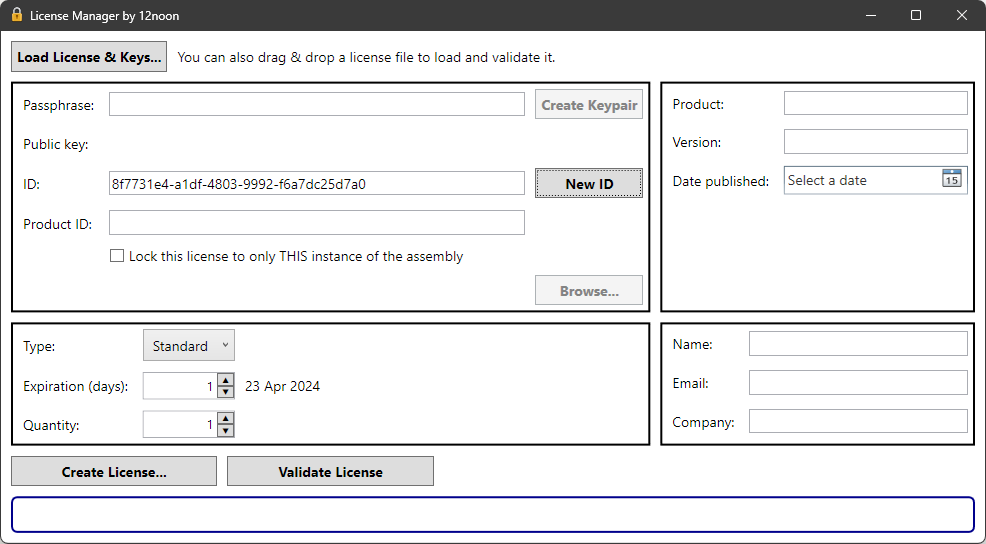
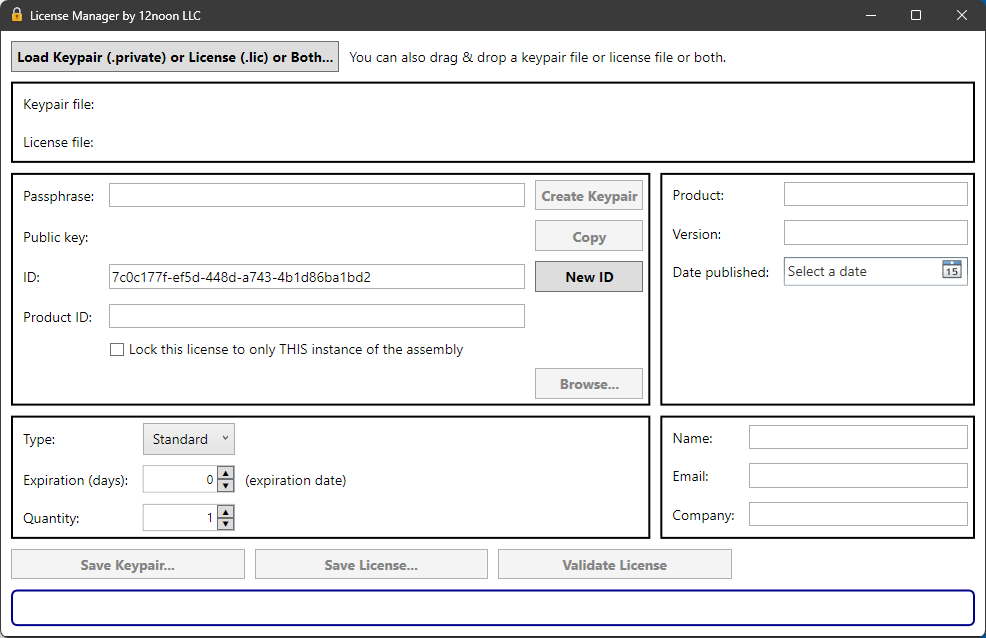
Update README.

diff --git a/README.md b/README.md
@@ -1,9 +1,7 @@
 # License Manager by [12noon LLC](https://12noon.com)
 
-[![build](https://github.com/skst/LicenseManager/actions/workflows/dotnet.yml/badge.svg)](https://github.com/skst/LicenseManager/actions/workflows/dotnet.yml)
-
 [![](https://img.shields.io/github/v/release/skst/LicenseManager.svg?label=latest%20release&color=007edf)](https://github.com/skst/LicenseManager/releases/latest)
-
+[![build](https://github.com/skst/LicenseManager/actions/workflows/dotnet.yml/badge.svg)](https://github.com/skst/LicenseManager/actions/workflows/dotnet.yml)
 [![GitHub last commit](https://img.shields.io/github/last-commit/skst/LicenseManager)](https://github.com/skst/LicenseManager)
 
 This is a graphical front-end for the [Standard.Licensing](https://github.com/junian/Standard.Licensing) project.
@@ -41,7 +39,7 @@ The publish date can represent any date you want.
 | Property | Usage |
 |----------|-------|
 | Type | Standard or trial license |
-| Expiration | The date on which the license expires. |
+| Expiration | The number of days in which the license expires. Zero means no expiry. |
 | Quantity | Minimum value is one (1) |
 
 The licensed application can check the type to permit only certain features.
@@ -64,18 +62,19 @@ This information can be displayed by the licensed application.
 
 ### Create a New License
 
-Note that the public key and product ID are passed by the licensed application,
+Note that the public key and product ID are passed by the licensed application
 to validate the license, so you only want to create a new keypair or change the
-product ID if you want to rebuild the licensed application and create new licenses
-for anyone who will use the new build.
+product ID if you want to change them in the licensed application, rebuild it,
+and create new licenses for anyone who will use the new build.
 
 1. Create a keypair by entering a value for _Passphrase_ and pressing _Create Keypair_ button.
 1. Enter a _Product ID_.
 1. Optionally, lock the license to a specific build of the licensed application.
 1. Fill in the product information, license information, and licensee information.
-1. Press the _Create License..._ button. This will prompt you for where to save the `.lic` and `.private` files.
+1. Press the _Save Keypair..._ button. This will prompt you for where to save the `.private` file.
+1. Press the _Save License..._ button. This will prompt you for where to save the `.lic` file.
 
-The `.private` file contains all of the secret information used to create the license.
+The `.private` file contains all of the information used to create the license, including the secrets.
 Do keep the `.private` file somewhere safe.
 Do NOT add the `.private` file to source control.
 You will need it to create more licenses for your licensed application
@@ -83,16 +82,17 @@ You will need it to create more licenses for your licensed application
 
 ### Create a License Based on an Existing License
 
-1. Press the *Load License & Keys* button to select a `.lic` file.
-1. This will validate the license file.
+1. Press the *Load Keypair or License or Both...* button to select a `.private` or
+`.lic` file (or both of them). Alternatively, you can drag/drop a `.private` and/or `.lic` file.
+1. After loading both files, License Manager will validate the license file.
 
-If the license is invalid (_e.g._, the assembly has changed), you can create a new (valid) license.
-
-You can also drag/drop an existing `.lic` file (with its associated `.private` file in same folder).
+If the license is invalid (_e.g._, it expired or the assembly has changed), you can create a new (valid) license.
 
 1. Now you can update the product, license, or licensee information as needed.
-1. Press the _Create License..._ button to create a new license. This will
-prompt you for where to save the `.lic` file. (The `.private` file will be saved in the same folder.)
+1. Press the _Save Keypair..._ button to save the keypair file. This will
+prompt you for where to save the `.private` file.
+1. Press the _Save License..._ button to create a new license. This will
+prompt you for where to save the `.lic` file.
 
 ### The Licensed Application
 
